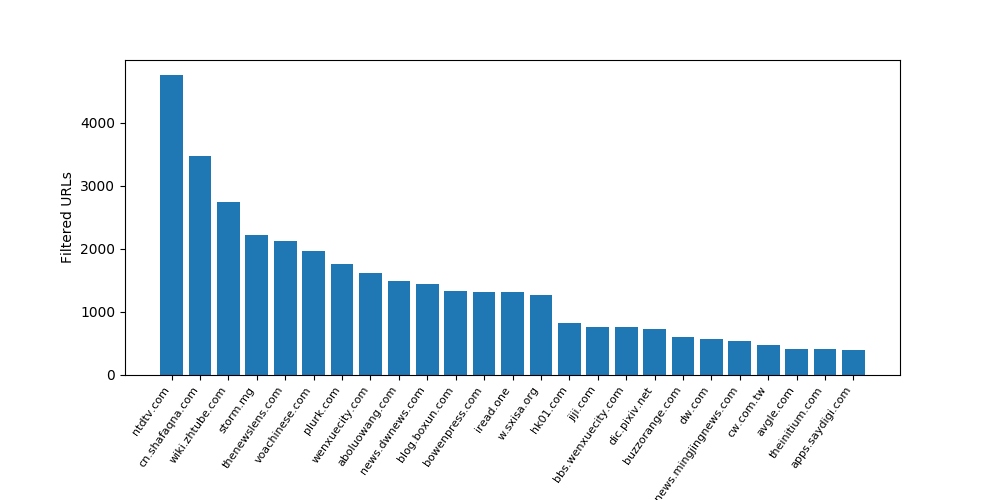
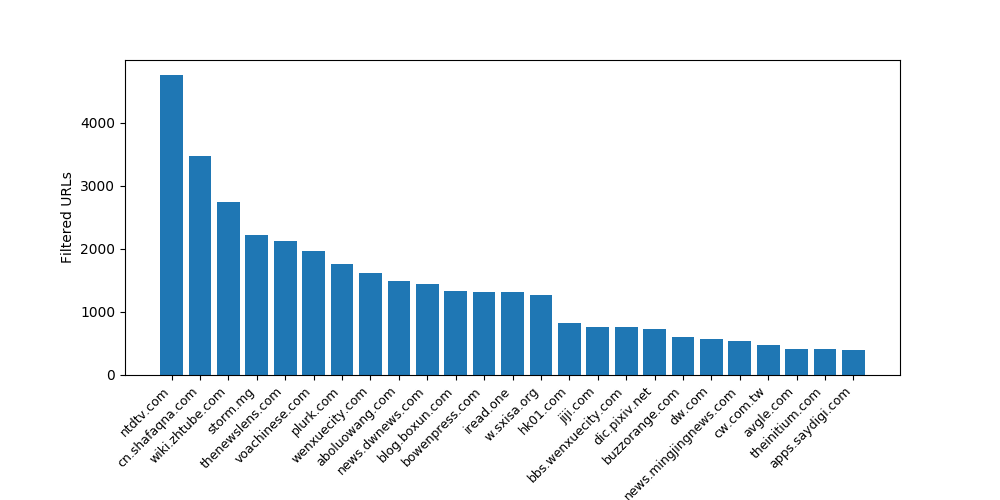
Update Figure 2 sizing

Changed region(s): [[0.124, 0.78, 0.868, 1.0]]

diff --git a/paper/foci/figures/top-domains.py b/paper/foci/figures/top-domains.py
@@ -1,4 +1,5 @@
 import heapq
+import json
 import csv
 import sqlite3
 import matplotlib
@@ -52,11 +53,14 @@ def get_data(db):
 
 def make_fig():
     # Get the top 25 domains across unigrams, bigrams, and trigrams, sorted
-    unigram_data = get_data('unigrams.db')
-    bigram_data = get_data('bigrams.db')
-    trigram_data = get_data('trigrams.db')
-    all_data = Counter(unigram_data) + Counter(bigram_data) + Counter(trigram_data)
+    # unigram_data = get_data('unigrams.db')
+    # bigram_data = get_data('bigrams.db')
+    # trigram_data = get_data('trigrams.db')
+    # all_data = Counter(unigram_data) + Counter(bigram_data) + Counter(trigram_data)
+    # json.dump(all_data, open('figures/top_domains.json','w'))    
+    all_data = json.load(open('top-domains.json'))
     all_data = dict(heapq.nlargest(25, all_data.items(), key=itemgetter(1)))
+    print(all_data)
 
     # Make a bar plot
     domains = list(all_data.keys())
@@ -65,9 +69,9 @@ def make_fig():
     pyplot.figure(figsize=(10,5))
     pyplot.bar(y_pos, counts)
     pyplot.ylabel('Filtered URLs')
-    pyplot.xticks(y_pos, domains, rotation=55, ha='right')
+    pyplot.xticks(y_pos, domains, rotation=45, ha='right')
     pyplot.subplots_adjust(bottom=0.25)
-    pyplot.tick_params(axis='x', which='major', labelsize=8)
+    pyplot.tick_params(axis='x', which='major', labelsize=9)
     pyplot.savefig('top-domains.png')
     
 
